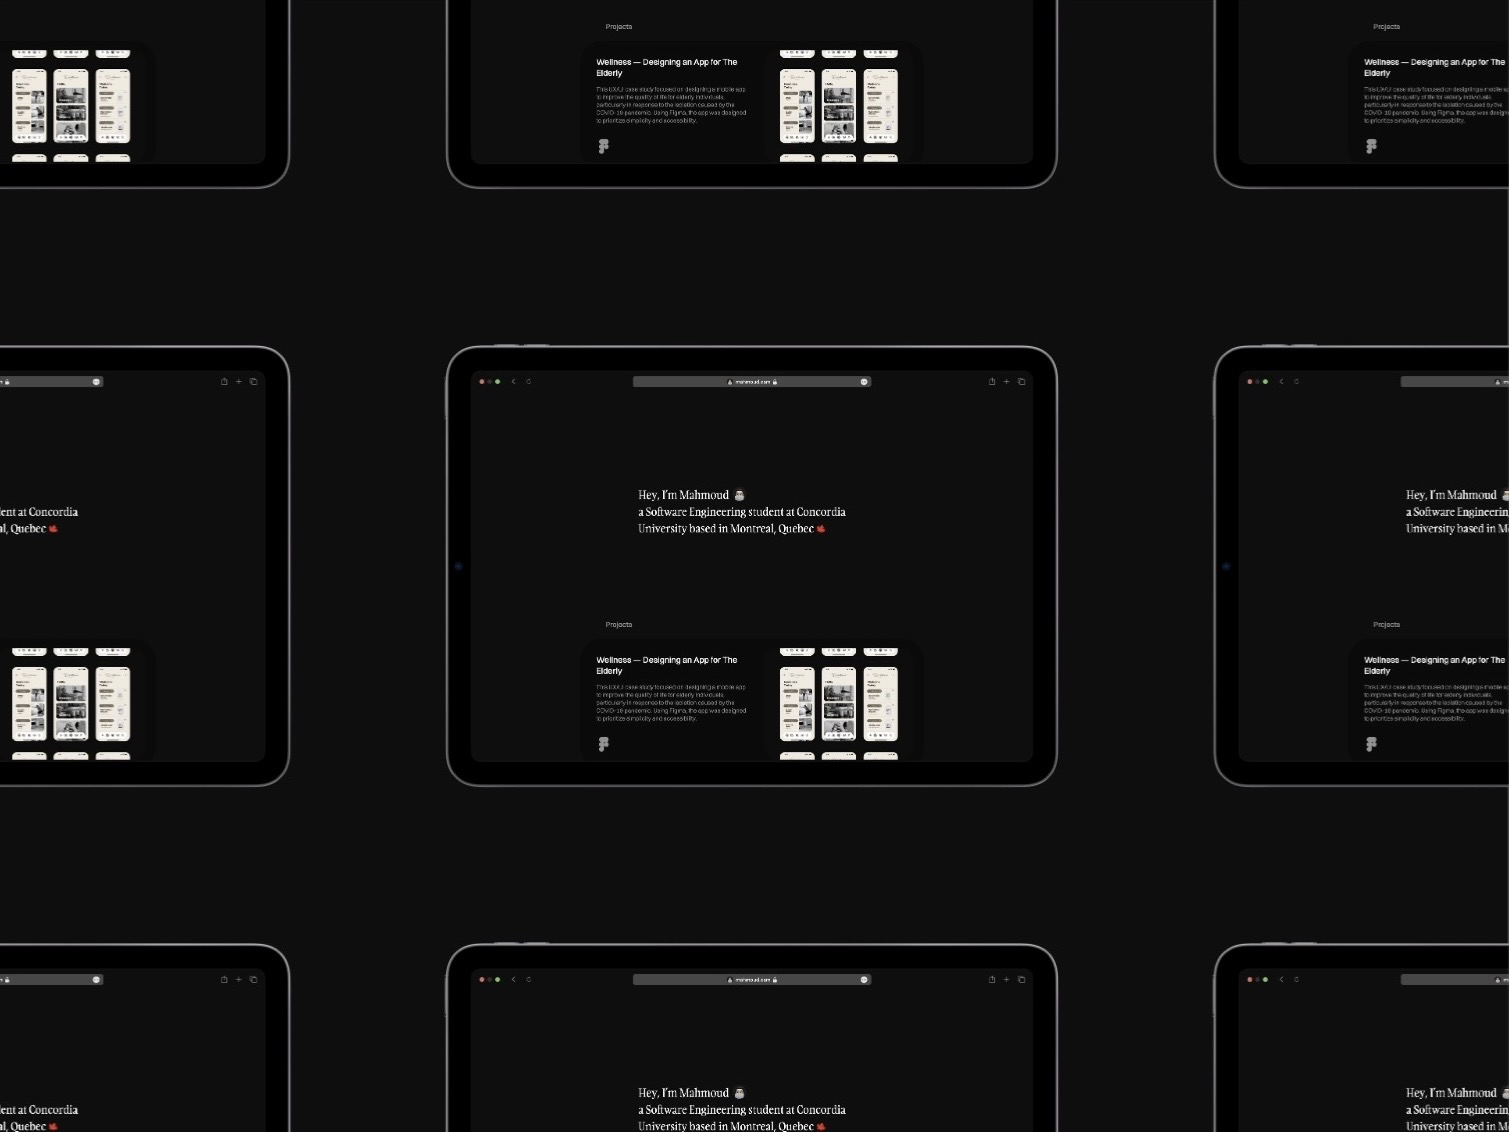
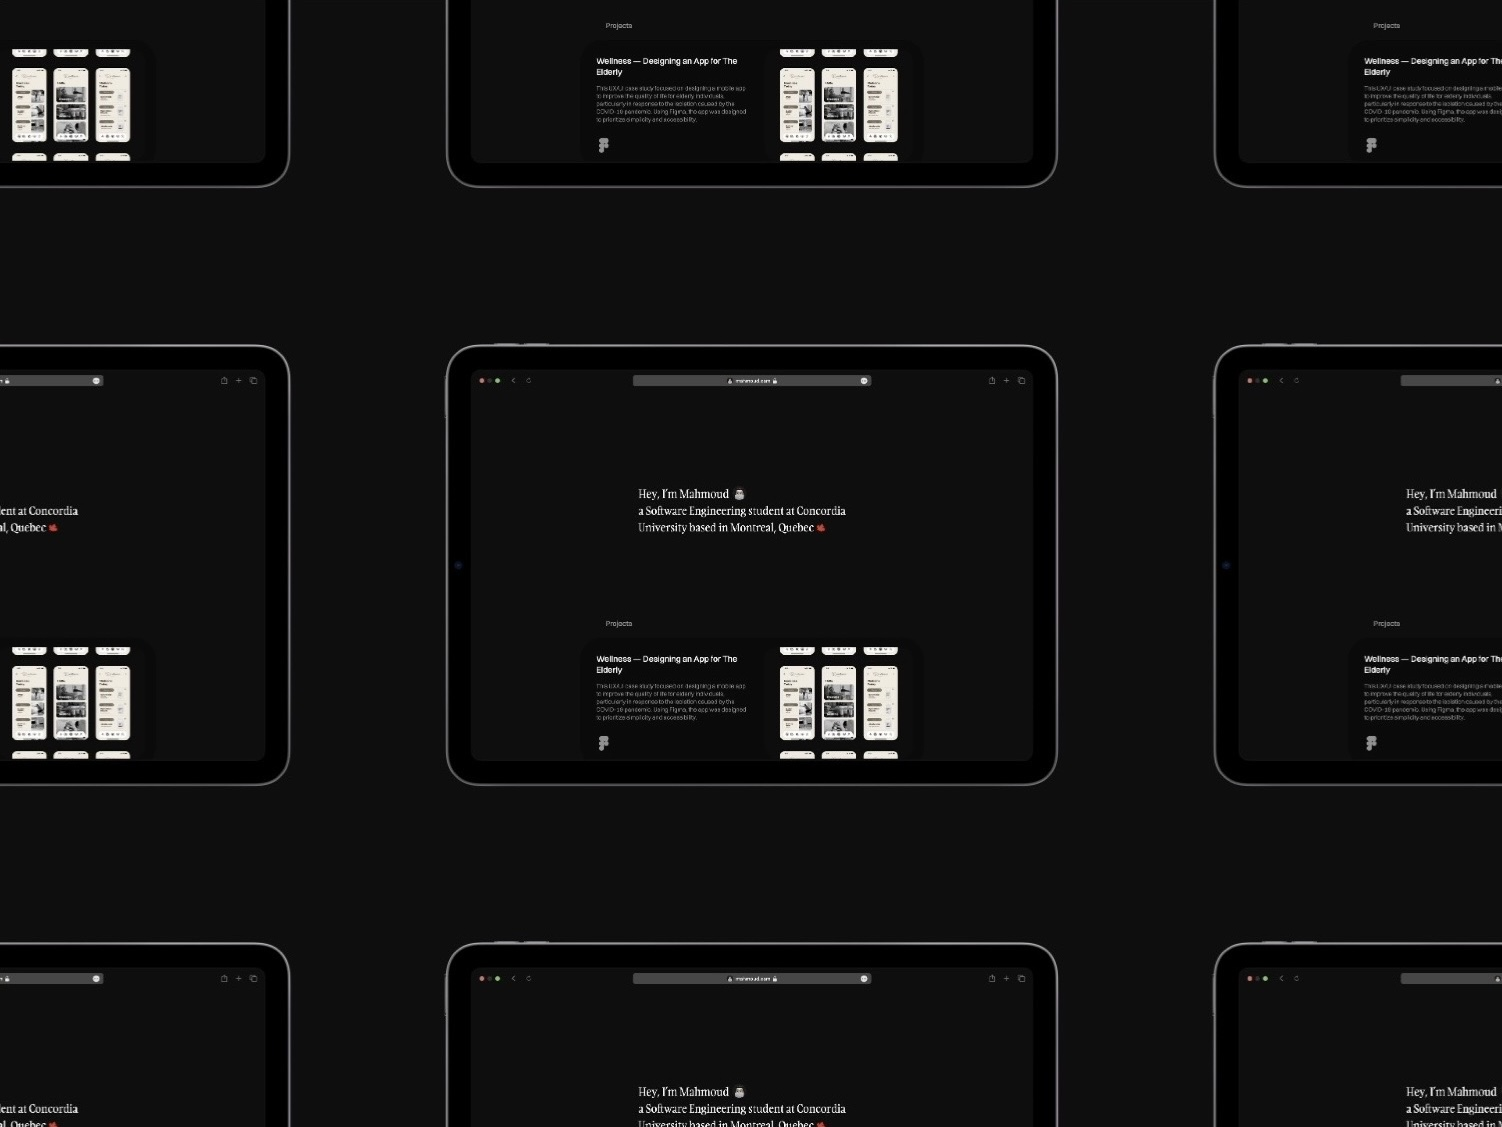
Fixed ProjectDetails gap on mobile

diff --git a/src/components/style/ProjectCard.css b/src/components/style/ProjectCard.css
@@ -60,7 +60,7 @@
 @media (max-width: 768px) {
     .ProjectCard {
         width: 78.1vw;
-        height: 126.46vw;
+        height: fit-content;
         border-radius: 10.68vw;
         margin-bottom: 5.59vw;
         padding: 5.34vw 5.34vw 7.12vw 5.34vw;
@@ -71,10 +71,10 @@
         margin-right: auto;
         margin-left: auto;
         width: 74.55vw;
-        height: 61.83vw;
+        height: fit-content;
         padding-right: 1.78vw;
         padding-left: 1.78vw;
-        gap: 41vw;
+        gap: 45vw;
     }
     .ProjectInfo{
         width: 73.53vw;
